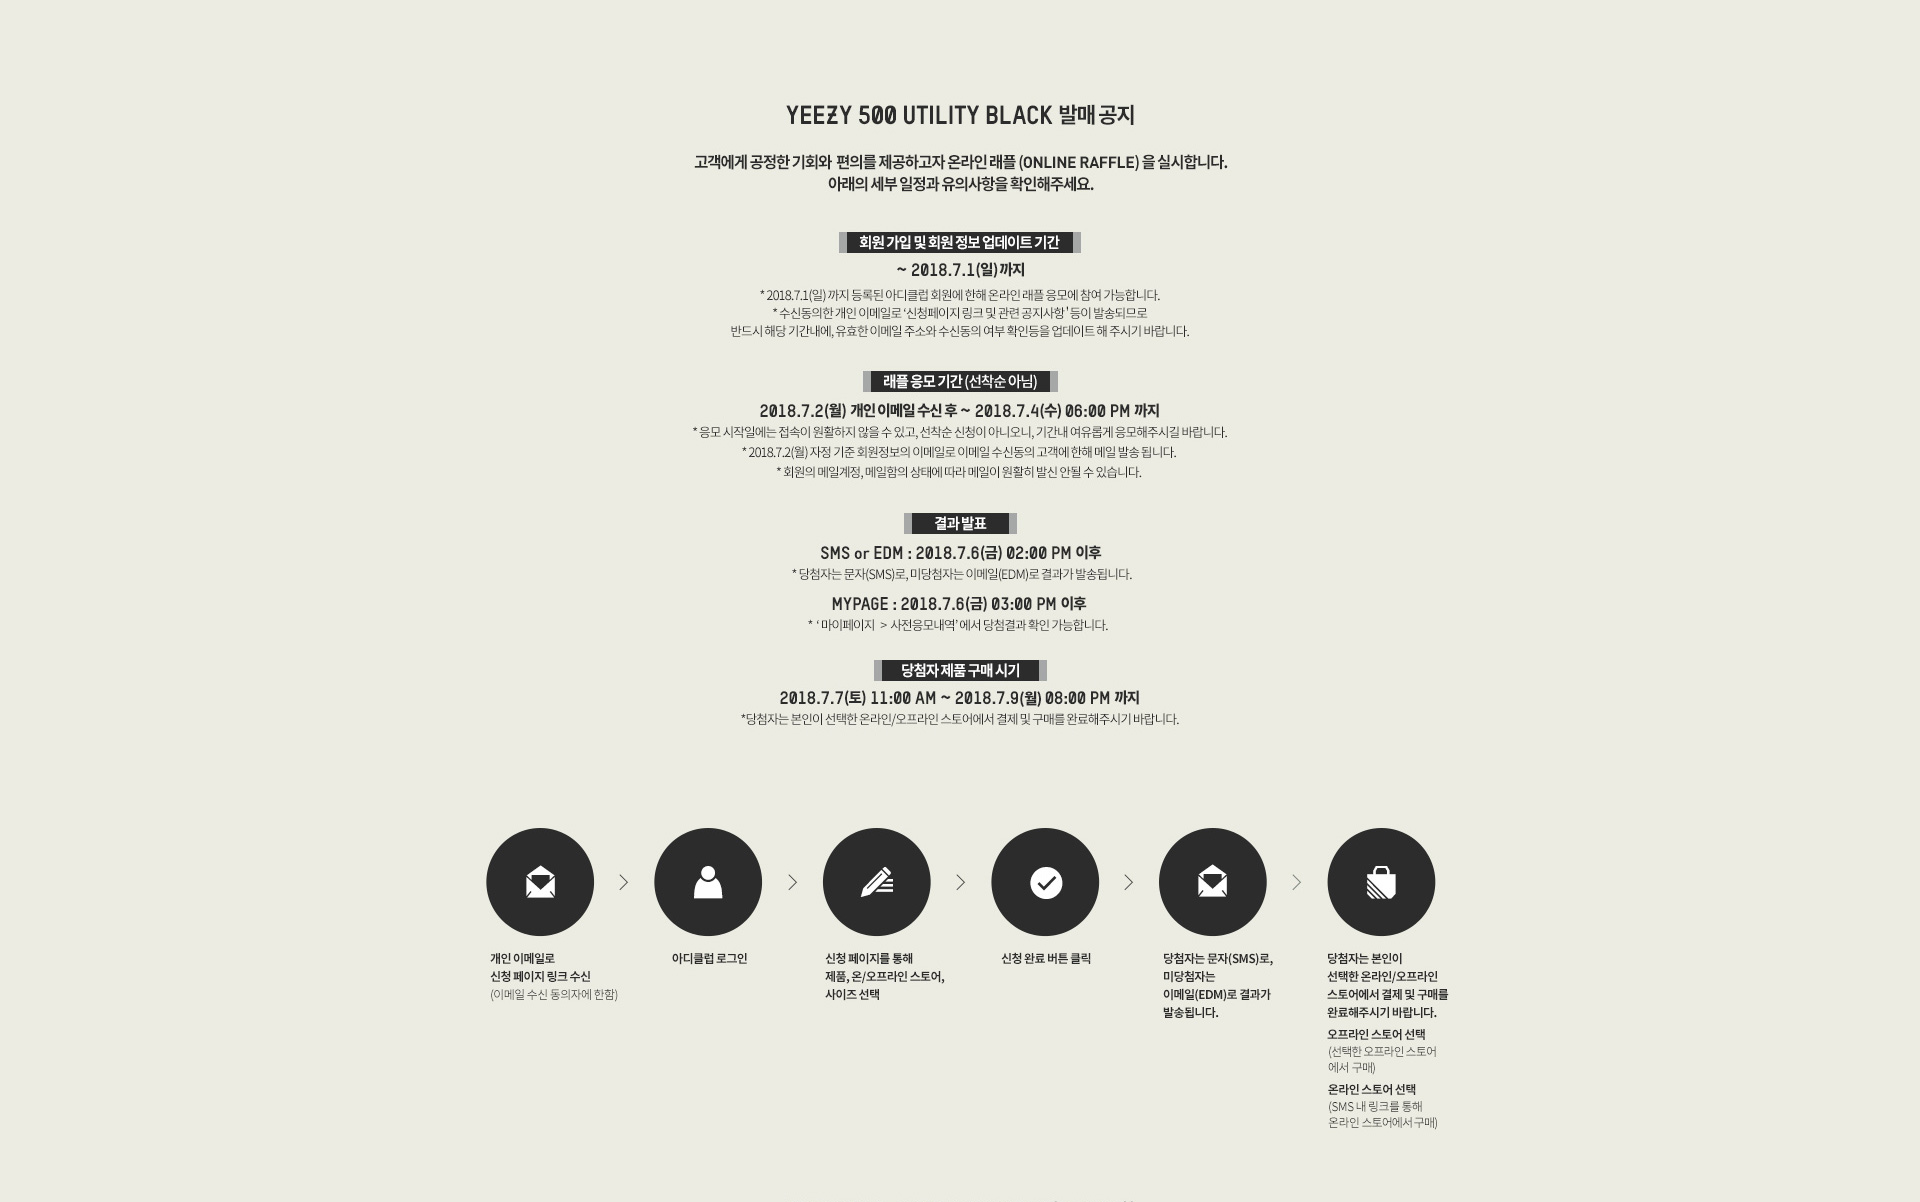
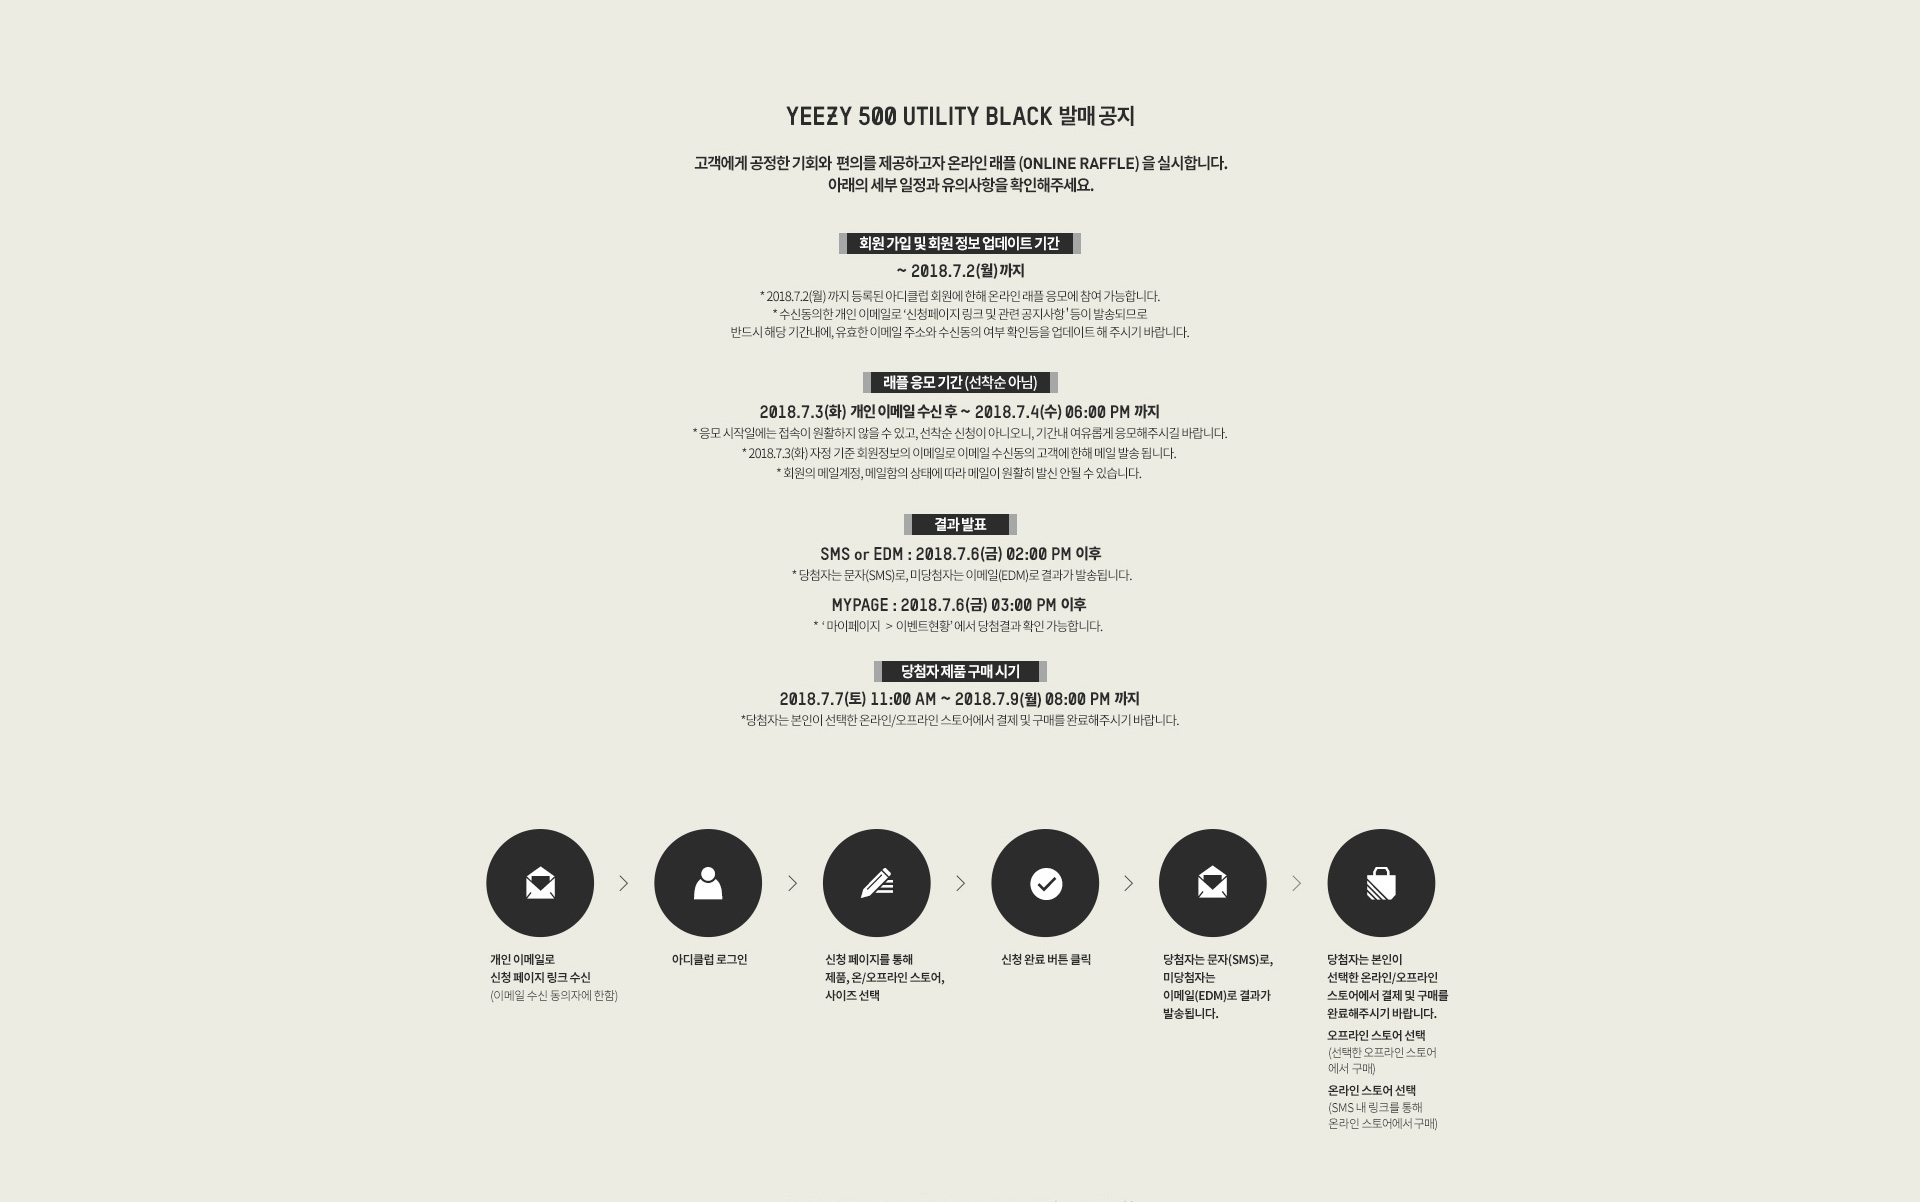
이지부스트 500 유틸리티 수정 그만 와라

diff --git a/app/html/adidas/event/yeezy/180625/event_enter_vertical.html b/app/html/adidas/event/yeezy/180625/event_enter_vertical.html
@@ -1508,9 +1508,9 @@
 							<ul>
 								<li>본 온라인 래플은 무작위 추첨제로 진행됩니다. (선착순 응모 아님)</li>
 								<li class="org"><strong>아디클럽 회원가입이 필수이며 회원 ID 1개당 1회 응모가 가능합니다.</strong></li>
-								<li>2018.7.1(일)까지 가입한 아디클럽 회원에 한해 온라인 래플 응모에 참여 가능합니다.</li>
+								<li>2018.7.2(월)까지 가입한 아디클럽 회원에 한해 온라인 래플 응모에 참여 가능합니다.</li>
 								<li>[마이페이지>나의 회원정보]에 등록된 이메일주소와 휴대폰번호로 신청 페이지 링크 및 관련 공지 사항이 발송됩니다. </li>
-								<li>반드시 2018.7.1(일)까지 이메일주소 / 휴대폰번호 및 수신 동의 여부를 확인 후 업데이트해주시기 바랍니다. </li>
+								<li>반드시 2018.7.2(월)까지 이메일주소 / 휴대폰번호 및 수신 동의 여부를 확인 후 업데이트해주시기 바랍니다. </li>
 								<li>입력하신 이메일 주소 / 휴대폰번호 등의 개인정보가 사실과 다르거나 수신에 동의하지 않은 경우, 불이익이 발생할 수 있으며, 당사는 그에 대한 책임을 지지 않습니다.</li>
 								<li>당첨자는 2018.7.7(토) 11 : 00 AM ~ 2018.7.9(월) 08 : 00 PM까지 선택한 온라인/오프라인 스토어에서 결제 및 구매를 완료해주시기 바랍니다.</li>
 								<li>당첨자 본인만 구매가 가능합니다.</li>
